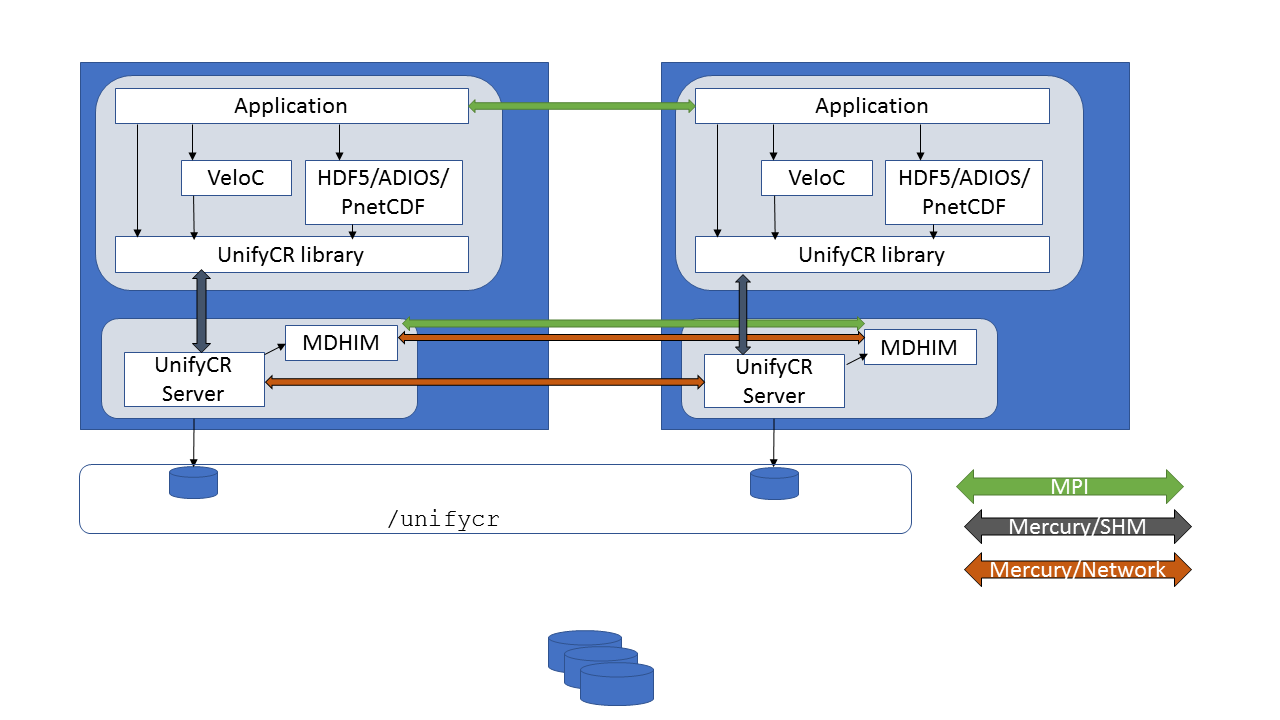
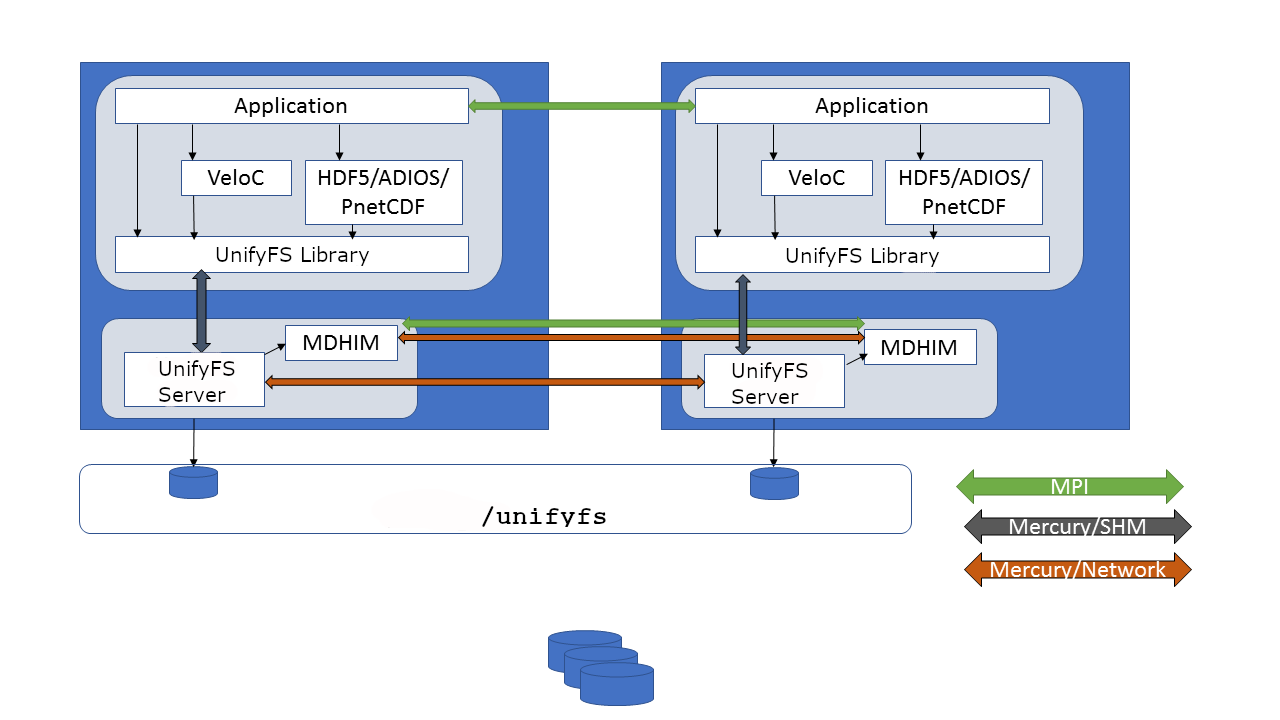
Minor updates to ExaHDF5 and UnifyFS
UnifyCR -> UnifyFS

diff --git a/projects/2.3.4-DataViz/2.3.4.15-HDF5-UnifyCR/2.3.4.15-ExaHDF5.tex b/projects/2.3.4-DataViz/2.3.4.15-HDF5-UnifyCR/2.3.4.15-ExaHDF5.tex
@@ -2,17 +2,17 @@
 
 \paragraph{Overview} 
 
-Hierarchical Data Format version 5 (HDF5) is the most popular high-level I/O library for scientific applications to write and read data files. The HDF Group released the first version of HDF5 in 1998 and over the past 20 years, it has been used by numerous applications not only in scientific domains but also in finance, space technologies, and many other business and enginering fields. HDF5 is the most used library for performing parallel I/O on existing HPC systems at the DOE supercomputing facilities. NASA gives HDF5 software the highest technology readiness level (TRL 9), which is given to actual systems ``flight proven'' through successful mission operations. 
+Hierarchical Data Format version 5 (HDF5) is the most popular high-level I/O library for scientific applications to write and read data files. The HDF Group released the first version of HDF5 in 1998 and over the past 20 years, it has been used by numerous applications not only in scientific domains but also in finance, space technologies, and many other business and engineering fields. HDF5 is the most used library for performing parallel I/O on existing HPC systems at the DOE supercomputing facilities. NASA gives HDF5 software the highest technology readiness level (TRL 9), which is given to actual systems ``flight-proven'' through successful mission operations. 
 
-In this project, we have developed various HDF5 features are in development to address efficiency and other challenges posed by data management and parallel I/O on exascale architectures. The ExaIO-HDF5 team is productizing features and techniques that have been previously prototyped, exploring optimization strategies on upcoming architectures, maintaining and optimizing existing HDF5 features tailored for ECP applications. Along with supporting and optimizing I/O performance of HDF5 applications, new features in this project include transparent data caching in the multi-level storage hierarchy, topology-aware I/O related data movement in exascale systems, full single-writer and multi-reader (SWMR) for workflows, asynchronous I/O, querying data and metada, and sub-filing. 
+In this project, we have developed various HDF5 features are in development to address efficiency and other challenges posed by data management and parallel I/O on exascale architectures. The ExaIO-HDF5 team is productizing features and techniques that have been previously prototyped, exploring optimization strategies on upcoming architectures, maintaining and optimizing existing HDF5 features tailored for ECP applications. Along with supporting and optimizing I/O performance of HDF5 applications, new features in this project include transparent data caching in the multi-level storage hierarchy, topology-aware I/O related data movement in exascale systems, full single-writer / multi-reader (SWMR) for workflows, asynchronous I/O, querying data and metadata, and scalable sub-file I/O. 
 
-Many of the funded exascale applications and co-design centers require HDF5 for their I/O, and enhancing the HDF5 software to handle the unique challenges of exascale architectures will play an instrumental role in the success of the ECP. For instance, AMReX, the AMR co-design center is using HDF5 for I/O, and all the ECP applications that are collaborating with AMReX will benefit from improvements to HDF5. The full SWMR feature will support the needs of ExaFEL’s workflow in appending data incrementally. The virtual Object Layer (VOL) and interoperability features with netCDF and ADIOS data open up the rich HDF5 data management interface to a large number of file formats. The project will be releasing these new features in HDF5 for broad deployment on HPC systems. Focusing on the challenges of exascale I/O, technologies will be developed based on the massively parallel storage hierarchies that are being built into pre-exascale systems. The enhanced HDF5 software will achieve efficient parallel I/O on exascale systems in ways that will impact a large number of DOE science as well as industrial applications.
+Many of the funded exascale applications and co-design centers require HDF5 for their I/O, and enhancing the HDF5 software to handle the unique challenges of exascale architectures will play an instrumental role in the success of the ECP. For instance, AMReX, the AMR co-design center, is using HDF5 for I/O, and all the ECP applications that are collaborating with AMReX will benefit from improvements to HDF5. The full SWMR feature will support the needs of ExaFEL’s workflow in appending data incrementally. The virtual Object Layer (VOL) and interoperability features with netCDF and ADIOS data open up the rich HDF5 data management interface to science data stored in other file formats. The project will be releasing these new features in HDF5 for broad deployment on HPC systems. Focusing on the challenges of exascale I/O, technologies will be developed based on the massively parallel storage hierarchies that are being built into pre-exascale systems. The enhanced HDF5 software will achieve efficient parallel I/O on exascale systems in ways that will impact a large number of DOE science as well as industrial applications.
 
 \paragraph{Key  Challenges}
 \paragraph{}
 There are challenges in developing I/O strategies for using a hierarchy of storage devices and topology of compute nodes efficiently, developing interoperability features with other file formats, and integrating existing prototyped features into production releases. 
 
-\textit{Efficient use of hierarchical storage and topology.} Data generation (e.g., by simulations) and consumption (such as for analysis) in exascale applications may span various storage and memory tiers, including near-memory NVRAM, SSD-based burst buffers, fast disk, campaign storage, and archival storage. Effective support for caching and prefetching data based on the needs of the application is critical for scalable performance. Also, support for higher bandwidth transfers and lower message latency interconnects in supercomputers are becoming more complex, in terms of both topology as well as routing policies. I/O libraries need to fully account for this topology in order to maximize I/O performance, and current I/O mechanisms fail to exploit the system topology efficiently.
+\textit{Efficient use of hierarchical storage and topology.} Data generation (e.g., by simulations) and consumption (such as for analysis) in exascale applications may span various storage and memory tiers, including near-memory NVRAM, SSD-based burst buffers, fast disk, campaign storage, and archival storage. Effective support for caching and prefetching data based on the needs of the application is critical for scalable performance. Also, support for higher bandwidth transfers and lower message latency interconnects in supercomputers is becoming more complex, in terms of both topologies as well as routing policies. I/O libraries need to fully account for this topology in order to maximize I/O performance, and current I/O mechanisms fail to exploit the system topology efficiently.
 
 %\textit{Interoperability with other file formats.} HDF5 offers a rich data model and powerful features for operating on data, and using these capabilities to access data stored in other data formats would be a valuable productivity boost to application developers and workflows. The team is developing  interoperability features that will enable ECP applications to use HDF5 function calls to read data directly from other file formats. Development includes functionality to read “classic” netCDF (including PnetCDF) and ADIOS/BP files, as these formats are in active use in DOE application communities focused on exascale deliverables. 
 
@@ -21,9 +21,9 @@ There are challenges in developing I/O strategies for using a hierarchy of stora
 
 \paragraph{Solution Strategy}
 
-\textit{Utilizing complex compute and storage hardware. } Data Elevator is being developed in this project to exploit multi-level storage hierarchies. The Data Elevator library intercepts HDF5 file access calls and redirects them to intermediate faster caching storage layers, which future application reads or writes will then access. When updates or writes to the intermediate data are finished, Data Elevator's server daemon moves the data transparently to its final destination on colder storage layers, such as disk-based parallel file system.  This occurs transparently to the application, without modifying the source code or placing a burden on user to move the data explicitly to and from the intermediate caching storage layer.
+\textit{Utilizing complex compute and storage hardware. } Data Elevator is being developed in this project to exploit multi-level storage hierarchies. The Data Elevator library intercepts HDF5 file access calls and redirects them to intermediate faster caching storage layers, which future application reads or writes will then access. When updates or writes to the intermediate data are finished, Data Elevator's server daemon moves the data transparently to its final destination on colder storage layers, such as a disk-based parallel file system.  This occurs transparently to the application, without modifying its source code or placing a burden on users to move the data explicitly to and from  intermediate caching storage layers.
 
-In our prior work, improved communication times were achieved for a wide spectrum of data movement patterns such as those seen in multi-physics codes, parallel I/O aggregation, and in situ analysis, and have also improved the time to access parallel file systems. The team is developing these topology-aware optimization strategies as a Virtual File Driver (VFD), which can be plugged in to HDF5. 
+In our prior work, improved communication times were achieved for a broad spectrum of data movement patterns such as those seen in multi-physics codes, parallel I/O aggregation, and in situ analysis, and have also improved the time to access parallel file systems. In addition to our work on Data Elevator, the team is also developing these topology-aware optimization strategies as a Virtual File Driver (VFD), which can be plugged into HDF5.  
 
 \begin{wrapfigure}{r}{0.51\textwidth}
   \begin{center}
@@ -36,19 +36,19 @@ In our prior work, improved communication times were achieved for a wide spectru
 
 %\textit{Interoperability with other file formats.} To open the HDF5 API for interfacing with various file formats and to provide the capability of intercepting HDF5 API calls, a ``Virtual Object Layer'' (VOL) feature is being developed. The VOL adds a new abstraction layer internally within the HDF5 library and is implemented just below the public API. The VOL intercepts all HDF5 API calls that access objects in a file and forwards those calls to an “object connector”, which can be pre-linked, or loaded dynamically. A VOL connector can store HDF5 data model objects in a variety of ways. Figure \ref{fig:vol-overview} shows a high-level view of the VOL, where intercepted HDF5 API calls can interface with other file formats and object storage. We will create VOL connectors to access the netCDF and ADIOS/BP file formats, so that applications can use the HDF5 API to operate on data stored in these formats. The interoperability functions in the VOL support the pre-defined datatypes (integers, floating-point values, strings, etc.) in these formats, and will also support compound datatypes, i.e., a user-defined combination of pre-defined datatypes, in netCDF and will use compound datatypes to support ADIOS’ complex datatypes, which represent complex numbers.
 
-\textit{Asynchrnous I/O Virtual Object Layer (VOL) Connector}: Implementation of asynchronous I/O operations can be achieved in different ways. Since the native asynchronous interface offered by most existing operating systems and low-level I/O frameworks (POSIX AIO and MPI-IO) does not include all file operations, we chose to perform I/O operations in a background thread. With recent increase in the number of available CPU threads per processor, it is now possible to use a thread to execute asynchronous operations from the core that the application is running on without significant impact to the application's performance. As shown in Figure \ref{fig:asyncio-overview}, when an application enables asynchronous I/O, a background thread is started. Each I/O operation is intercepted and an asynchronous task is created, storing all the relevant information before inserting it into the asynchronous task queue. The background thread monitors the running state of the application, and only starts executing the accumulated tasks when it detects the application is idle or performing non-I/O operations. When all I/O operations have completed and the application issues the file close call, the asynchronous I/O related resources, as well as the background thread itself, would be freed.
+\textit{Asynchronous I/O Virtual Object Layer (VOL) Connector}: Implementation of asynchronous I/O operations can be achieved in different ways. Since the native asynchronous interface offered by most existing operating systems and low-level I/O frameworks (POSIX AIO and MPI-IO) does not include all file operations, we chose to perform I/O operations in a background thread. With the recent increase in the number of available CPU threads per processor, it is now possible to use a thread to execute asynchronous operations from the core that the application is running on without a significant impact on the application's performance. As shown in Figure \ref{fig:asyncio-overview}, when an application enables asynchronous I/O, a background thread is started. Each I/O operation is intercepted, and an asynchronous task is created, storing all the relevant information before inserting it into the asynchronous task queue. The background thread monitors the running state of the application, and only starts executing the accumulated tasks when it detects the application is idle or performing non-I/O operations. When all I/O operations have completed and the application issues the close file call, the asynchronous I/O related resources, as well as the background thread itself, are freed.
 
 \paragraph{Recent Progress}
-\emph{Prototype implementation of Data Elevator read prefetching.} The project team has developed a prototype implementation of read caching and prefetching functionality and tested with various data read kernels from real applications. Using the burst buffers on Cori, the Data Elevator achieves 1.2--3X performance improvement over a highly tuned HDF5 code in reading data. Performance evaluation included representative I/O of convolution on climate modeling data, gradient computation of a plasma physics data, and voriticity computation of a combustion dataset. 
+\emph{Prototype implementation of Data Elevator read prefetching.} The project team has developed a prototype implementation of read caching and prefetching functionality, and has tested with various data read kernels from real applications. Using the burst buffers on Cori, the Data Elevator achieves 1.2--3X performance improvement over a highly tuned HDF5 code in reading data. Performance evaluation included representative I/O of convolution on climate modeling data, gradient computation of a plasma physics data, and vorticity computation of a combustion dataset. 
 
-\emph{Integration of VOL into the HDF5 develop branch. } VOL feature branch has been integrated into the main HDF5 development branch. Earlier in the project, an older VOL branch was brought in sync with the latest development branch, but this has been enhanced to allow stacking multiple VOL connectors. The development branch with the VOL feature has been tested with various VOL connector codes. A pass-through VOL connector also has been developed to test stack-ability of multiple VOL connectors. 
+\emph{Integration of the VOL framework into the HDF5 develop branch. } The VOL feature branch has been integrated into the main HDF5 development branch. Earlier in the project, an older VOL branch was brought in sync with the latest development branch, but this has been enhanced to allow stacking multiple VOL connectors. The development branch with the VOL feature has been tested with various VOL connector codes. A pass-through VOL connector also has been developed to test the stack-ability of multiple VOL connectors. 
 
 \emph{Supporting ECP application I/O}
-The ExaIO-HDF5 team has been working with various applications in the ECP portfolio. Applications and the AMReX co-design center have seen some performance issues, mainly because of less optimal configurations, such as using too few file system servers (e.g. Lustre Object Storage Targets or OSTs), producing a large number of metadata requests, using MPI collective buffering that was observing poor performance on NERSC's Cori. By simply changing these configurations, HDF5 achieved higher performance in writing files. 
+The ExaIO-HDF5 team has been working with various applications in the ECP portfolio. Applications in the AMReX co-design center have seen some performance issues, mainly because of less optimal configurations, such as using too few file system servers (e.g. Lustre Object Storage Targets or OSTs), producing a large number of metadata requests, using MPI collective buffering that was observing poor performance on NERSC's Cori. By simply changing these configurations, HDF5 achieved higher performance in writing files. 
 
 \emph{Asynchronous I/O}
 We have evaluated the proposed asynchronous I/O framework on the Cori supercomputer at the National Energy Research Scientific Computing Center (NERSC) with several benchmarks and I/O kernels. Experimental results show that our method can effectively mask the I/O cost when the application is idle or performing non-I/O operations. 
 
 \paragraph{Next Steps}
 
-The ExaIO-HDF5 team is designing subfiling - a strategy for reducing locking and contention on parallel file systems, developing topology-aware I/O, fine-tuning asynchronous I/O and the Data Elevator caching and prefetching functionality, and supporting ECP AD and ST teams and facilities in improving performance of HDF5. 
+The ExaIO-HDF5 team is designing subfiling - a strategy for reducing locking and contention on parallel file systems, developing topology-aware I/O, fine-tuning asynchronous I/O and the Data Elevator caching and prefetching functionality, and supporting ECP AD and ST teams and facilities in improving the overall performance of HDF5.

diff --git a/projects/2.3.4-DataViz/2.3.4.15-HDF5-UnifyCR/2.3.4.15-UNIFYCR.tex b/projects/2.3.4-DataViz/2.3.4.15-HDF5-UnifyCR/2.3.4.15-UNIFYCR.tex
@@ -13,10 +13,10 @@ workflows. Burst buffers are implemented as compute-node local storage
 buffer nodes).
 
 Because burst buffers present an additional complexity to effectively
-using supercomputers, we are developing UnifyCR, a user-level file system, 
+using supercomputers, we are developing UnifyFS, a user-level file system, 
 highly-specialized for shared file access on HPC systems with distributed 
-burst buffers.  UnifyCR will address a major usability 
-factor of the CORAL and other future systems, because it will enable 
+burst buffers.  UnifyFS will address a major usability 
+factor of current and future systems, because it will enable 
 applications to gain the performance advantages from distributed burst buffers 
 while providing ease of use similar to that of a parallel file system.
 
@@ -48,67 +48,69 @@ will have major difficulties utilizing these resources.
 
 \begin{figure}[htb]
         \centering
-        \includegraphics[width=3.5in]{projects/2.3.4-DataViz/2.3.4.15-HDF5-UnifyCR/UnifyCR-overview}
-        \caption{\label{fig:unifycr-overview} \textbf{UnifyCR Overview.} Users will be able to give commands in their batch scripts to launch UnifyCR within
-their allocation. UnifyCR will work with POSIX I/O, common I/O libraries, and
-VeloC. Once file operations are transparently intercepted by UnifyCR, they
+        \includegraphics[width=3.5in]{projects/2.3.4-DataViz/2.3.4.15-HDF5-UnifyFS/UnifyFS-overview}
+        \caption{\label{fig:UnifyFS-overview} \textbf{UnifyFS Overview.} Users will be able to give commands in their batch scripts to launch UnifyFS within
+their allocation. UnifyFS will work with POSIX I/O, common I/O libraries, and
+VeloC. Once file operations are transparently intercepted by UnifyFS, they
 will be handled with specialized optimizations to ensure high performance.}
 \end{figure}
 
 \paragraph{Solution Strategy}
 
-To address this concern, we are developing UnifyCR, a user-level file system,
+To address this concern, we are developing UnifyFS, a user-level file system,
 highly-specialized for shared file access on HPC systems with distributed
-burst buffers. In Figure \ref{fig:unifycr-overview}, we show a high
-level schematic of how UnifyCR will work. Users will load UnifyCR into
-their jobs from their batch scripts. Once UnifyCR is instantiated, user
+burst buffers. In Figure \ref{fig:UnifyFS-overview}, we show a high
+level schematic of how UnifyFS works. Users load UnifyFS into
+their jobs from their batch scripts. Once UnifyFS is instantiated, user
 applications can read and write shared files to the mount point just like
-they would the parallel file system. File operations to the UnifyCR
+they would the parallel file system. File operations to the UnifyFS
 mount point will be intercepted and handled with specialized optimizations
 that will deliver high I/O performance. 
 
-Because checkpoint/restart has been reported to cause 75-80\%
-of the I/O traffic on some HPC systems, we target our approach at
-checkpoint/restart workloads. Thus, UnifyCR will address a major usability
-factor of the CORAL and other future systems. We will design UnifyCR such
-that it transparently intercepts I/O calls, so we expect it to integrate
+Because bulk-synchronous I/O dominates the 
+I/O traffic most HPC systems, we target our approach at
+those workloads. Examples of bulk-synchronous I/O include checkpoint/restart
+and periodic output dumps by appliations. Thus, UnifyFS  addresses a major usability
+factor of current and future systems. We designed UnifyFS such
+that it transparently intercepts I/O calls, so it will integrate
 cleanly with other software including I/O and checkpoint/restart libraries.
-Additionally, because UnifyCR is tailored for HPC systems and workloads,
+Additionally, because UnifyFS is tailored for HPC systems and workloads,
 it can deliver high performance.
 
 
 
 \paragraph{Recent Progress}
 
-In the second year of this project, the team began
-implementing the design plan that was established in the first
+In the third year of this project, the team worked to implement the
+design plan that was established in the first
 year of the project (See Figure \ref{fig:milestone2}). In particular
-we worked to replace MPI communication with DataLib software; to integrate
-UnifyCR with resource managers; to evaluate and implement support for I/O 
-libraries; and to implement support for Sierra and Summit platforms.
-We also began to implement a testing framework for continuous integration
-testing, detected and fixed bugs, designed and began implementing a 
-metadata abstraction layer, and have begun outreach to applications teams.
+we completed the replacement of MPI communication with DataLib software; we developed
+support for moving data into and out of UnifyFS by I/O libraries and VeloC;
+we implemented and tested support for VeloC; we updated and improved our integration
+with resource managers; we furthered our efforts to evaluate and implement support for I/O 
+libraries. Additionally, we detected and fixed numerous bugs, improved documentation, and
+implemented a metadata abstraction layer, and released UnifyFS 0.9.
 \begin{figure}[htb]
         \centering
-        \includegraphics[width=4in]{projects/2.3.4-DataViz/2.3.4.15-HDF5-UnifyCR/milestone2}
-        \caption{\label{fig:milestone2} \textbf{UnifyCR Design.} The UnifyCR
-instance consists of a dynamic library and a UnifyCR daemon that runs
+        \includegraphics[width=4in]{projects/2.3.4-DataViz/2.3.4.15-HDF5-UnifyFS/milestone2}
+        \caption{\label{fig:milestone2} \textbf{UnifyFS Design.} The UnifyFS
+instance consists of a dynamic library and a UnifyFS daemon that runs
 on each compute node in the job. The library intercepts I/O calls to
-the UnifyCR mount point from applications, I/O libraries, or VeloC and communicates them to the UnifyCR daemon that handles the I/O operation.}
+the UnifyFS mount point from applications, I/O libraries, or VeloC and communicates them to the UnifyFS daemon that handles the I/O operation.}
 \end{figure}
 
 
-Our source code for UnifyCR is available on 
-GitHub at \url{https://github.com/LLNL/UnifyCR}. 
+Our source code for UnifyFS is available on 
+GitHub at \url{https://github.com/LLNL/UnifyFS}. 
 \paragraph{Next Steps}
 
-For our next milestone effort, we are focused on improving the performance
-of UnifyCR on Summit and Sierra. Additionally, we are continuing work on 
+For our next milestone effort, we are focused on delivering a design for 
+the UnifyFS API for use by HDF5 and other I/O libraries. Additionally, we are continuing work on 
 integrating and supporting ECP collaborator software including:
-I/O libraries HDF5, MPI-IO, PnetCDF, and ADIOS; completing the replacement
-of MPI communication with Mercury from ECP DataLib; implementing
-support for ECP VeloC; and supporting ECP applications such as
+I/O libraries HDF5, MPI-IO, PnetCDF, and ADIOS; improving
+support for ECP VeloC; and targeting integration with ECP applications such as
 E3SM, GEOS, and Chombo.
-We also plan to release UnifyCR 1.0 at the end of the fiscal year.
+We also plan to release UnifyFS 1.0 early in the 2020 calendar year.
+
+
 
